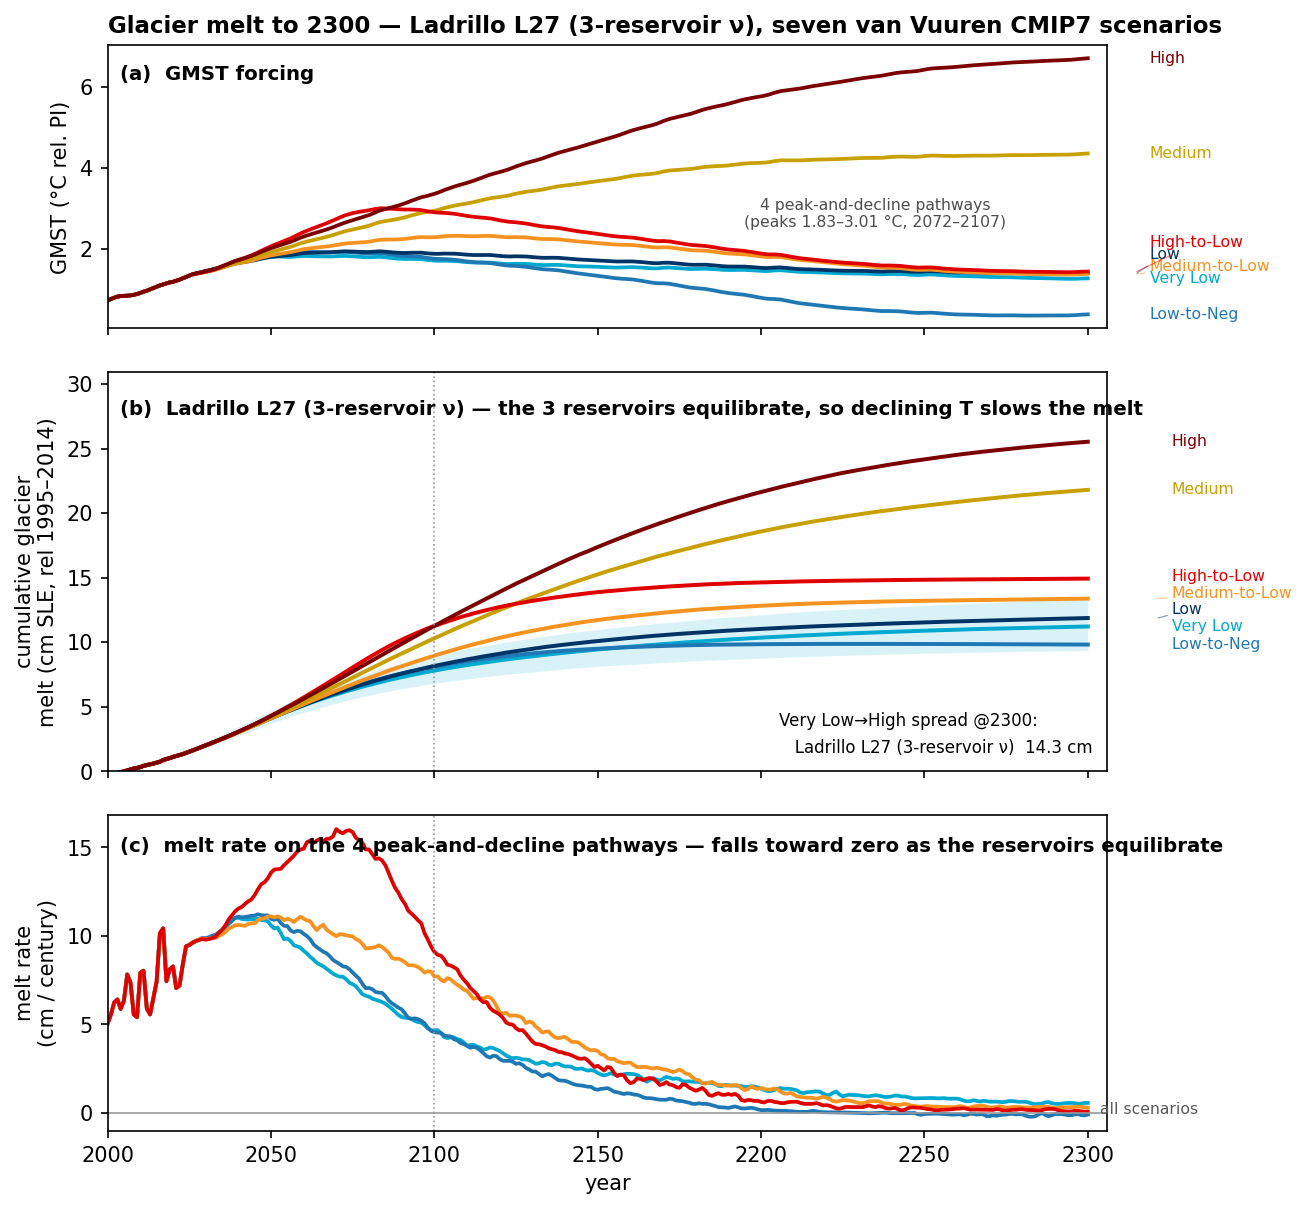
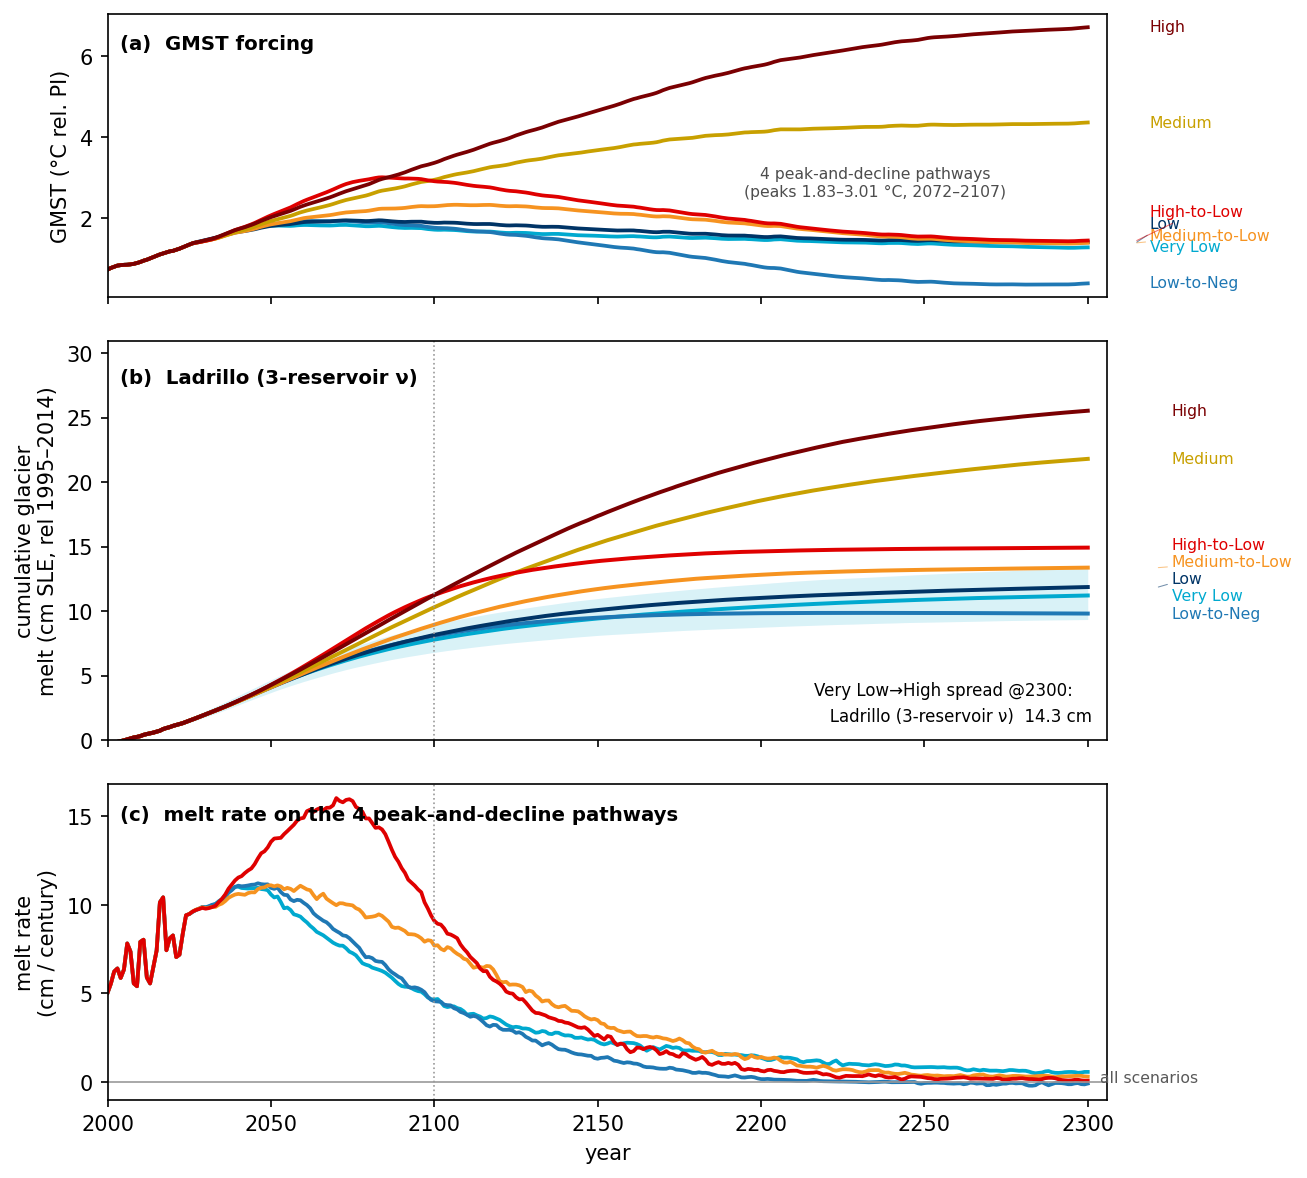
r1111b: Mimi.jl cites GitHub v1.6.0, NOAA access 20 May, short Fig. 5 panel titles (Marcus 11-12)
Rebuilt on the 20:34 TW2 save into a new file; Marcus's 07:25 save of r1111
had no text changes. 90 tracked edits, 8 comments; verify PASS, mutation 7/7.
Fig. 5 re-rendered: only the two title rows change. The stale fixed-arm
render (pre-11-05 paper mode) is refreshed too.

diff --git a/deliverables/redline/r1111/edits_r1111.py b/deliverables/redline/r1111/edits_r1111.py
@@ -80,6 +80,11 @@ ENTRIES = [
     E("R2", "References", "De La Guardia, F. H.", "Hoces de la Guardia, F.", "De La Guardia",
       "Zenodo creator Fernando Hoces de la Guardia; Crossref family 'Hoces de la Guardia'"),
     E("R3", "References", "and Catawbasam:", "and catawbasam:", "Catawbasam", "Zenodo creator list (a GitHub handle)"),
+    # Mimi.jl, option 1 (Marcus 11-12: "the Mimi citation should be to the github"): the Manifest pins 1.6.0, which Zenodo
+    # never archived; GitHub release v1.6.0, published 2026-04-03 (gh api .../releases/tags/v1.6.0, checked 11-12).
+    E("M1", "References", "all versions, Zenodo [code], https://doi.org/10.5281/zenodo.4321855, 2022",
+      "v1.6.0, GitHub [code], https://github.com/mimiframework/Mimi.jl/releases/tag/v1.6.0, 2026",
+      "mimiframework/Mimi.jl, all versions", "Marcus 11-12: Mimi option 1 (GitHub release v1.6.0)"),
     # ---- Fig. 5: the joint-arm image replaces the fixed-arm one (FIGS below), so the caption's last words go ----------
     # F5 (delete the caption's closing " Fixed arm.") dropped: Marcus deleted it in the 20:34 save.
 ]
@@ -92,6 +97,8 @@ MINIMAL = [
     ("T2c", "Σ_m ln L_m + ln π", "L_m", "𝓛_m"), ("T2d", "The L_m are Gaussian", "L_m", "𝓛_m"),
     # 2.2.4: alpha matched to total Earth heat, 1993-2020: diag_te_alpha_matched_scope_L27_igcc2025.csv alpha_obs_param 0.13921
     ("N1", "0.141, below the posterior", "0.141", "0.139"),
+    # 3.2: the Mimi.jl entry now cites the GitHub release v1.6.0, 2026 (M1; Marcus 11-12, option 1)
+    ("M2", "Mimi framework (1.6; Rennels et al., 2022)", "2022", "2026"),
     # 4.1: era shape 1900-1949 of observed 0-2000 m heat: diag_te_driver_timing_igcc2025.csv 0.2028
     ("N2", "0.21 for observed", "0.21", "0.20"),
     # 4.1: FaIR over 0-2000 m: Zanna+IGCC 1.192 (1993-2024), Zanna+Cheng 1.274 (diag_te_rate_attribution_L27_igcc2025.csv B)
@@ -175,7 +182,7 @@ NEW_REFS = [
      "https://doi.org/10.1038/s41467-026-77976-1, 2026."),
     ("Nauels, A., Möller", "NOAA Laboratory for Satellite Altimetry: Global mean sea level time series, TOPEX/Poseidon, "
      "Jason-1, -2, -3 and Sentinel-6MF, seasonal signals removed (slr_sla_gbl_free_ref_90), NOAA/NESDIS/STAR [data set], "
-     "https://www.star.nesdis.noaa.gov/socd/lsa/SeaLevelRise/LSA_SLR_timeseries.php, last access: 18 May 2026, 2026."),
+     "https://www.star.nesdis.noaa.gov/socd/lsa/SeaLevelRise/LSA_SLR_timeseries.php, last access: 20 May 2026, 2026."),
     ("Nauels, A., Möller", "Nicholls, Z. R. J., Meinshausen, M., Lewis, J., Gieseke, R., Dommenget, D., Dorheim, K., Fan, "
      "C.-S., Fuglestvedt, J. S., Gasser, T., Golüke, U., Goodwin, P., Hartin, C., Hope, A. P., Kriegler, E., Leach, N. J., "
      "Marchegiani, D., McBride, L. A., Quilcaille, Y., Rogelj, J., Salawitch, R. J., Samset, B. H., Sandstad, M., "
@@ -288,7 +295,7 @@ FIGS = [("rId11", "hindcast_components_L27.png", "Fig. 1: lettered render (11-05
         ("rId13", "model_comparison_components_vv_L27_2100.png", "Fig. 2: lettered render (11-05)"),
         ("rId15", "model_comparison_components_vv_L27_2300.png", "Fig. 3: lettered render (11-05)"),
         ("rId17", "future_components_vv_L27_joint.png", "Fig. 4: lettered render (11-05)"),
-        ("rId19", "vv_gsic_ladrillo_L27_2300_joint.png", "Fig. 5: joint arm (11-05), as the caption says"),
+        ("rId19", "vv_gsic_ladrillo_L27_2300_joint.png", "Fig. 5: joint arm (11-05), as the caption says; short panel titles (Marcus 11-12)"),
         ("rId21", "vv_responsiveness_L27.png", "Fig. 6: lettered render (11-05)")]
 
 
@@ -377,15 +384,11 @@ COMMENTS = [
      "(the four production chains give the shipped 10,000-draw posterior byte for byte). Not yet: the scripts that build "
      "the calibration targets and drivers from the Table 3 sources. That port needs your decisions on the non-public "
      "Dangendorf v2 file, GRACE redistribution and dataset licences."),
-    ("mimiframework/Mimi.jl, all versions",
-     "Claude 11-11: the Manifest pins Mimi 1.6.0 (GitHub tag v1.6.0, commit b01ae95, 2026-04-03), but Zenodo never archived "
-     "1.6: the concept DOI 4321855 resolves to v1.5.1 (10.5281/zenodo.7370071, 2022). Option 1: cite the GitHub tag "
-     "v1.6.0 (no DOI), year 2026, so 'Rennels et al., 2026' in Sect. 3.2. Option 2: keep this entry (2022, concept "
-     "DOI). I fixed only the two creator names to match Zenodo."),
-    ("last access: 18 May 2026",
-     "Claude 11-11: the repository bounds the download to 18-20 May 2026 (URLs confirmed 05-18 in download_obs.py; the "
-     "file was committed 05-20); I used 18 May. NOAA's data policy asks for the acknowledgment 'Altimetry data are "
-     "provided by the NOAA Laboratory for Satellite Altimetry.'; the Acknowledgements say 'are sourced from'."),
+    # The Mimi.jl comment (options 1/2) was dropped 11-12: Marcus chose option 1 (M1, M2).
+    ("last access: 20 May 2026",
+     "Claude 11-12: access date 20 May, your call 11-12 (the repository bounds the download to 18-20 May; the file was "
+     "committed 05-20). Still open: NOAA's data policy asks for the acknowledgment 'Altimetry data are provided by the "
+     "NOAA Laboratory for Satellite Altimetry.'; the Acknowledgements say 'are sourced from'."),
     # The seed comment ("that each figure reads") was dropped for the 17:06 save: Marcus replaced the sentence with
     # "Ladrillo's calibration and projection drivers fix every random seed, so the results can be regenerated."
     ("Greenland melt occurs through",
@@ -400,7 +403,8 @@ COMMENTS = [
      "two references to note 17 (Sect. 3.2, Table A3) now say note 14. The guidance listed notes 17, 19, 20 and 21; "
      "note 17 is the Rignot area scaling, a method, so it stays."),
     ("Regrowth of about 0.08 cm occurs on Low-to-Negative",
-     "Claude 11-11: the joint-arm image is in. The guidance's "
+     "Claude 11-12: shorter panel titles, your call 11-12: '(b) Ladrillo (3-reservoir ν)' and '(c) melt rate on the 4 "
+     "peak-and-decline pathways'; nothing else in the image changed. Claude 11-11: the joint-arm image is in. The guidance's "
      "move of this figure to after the peak-and-decline paragraph is NOT done: a scripted move would turn this caption's "
      "pending edits into one Claude insertion. Cut and paste the figure and caption in Word with Track Changes on if you "
      "want it. Figs. 5 and 6 are first cited together (Sect. 4.2), so the move does not change their numbering."),

diff --git a/python/plot_vv_gsic_wr_vs_ladrillo.py b/python/plot_vv_gsic_wr_vs_ladrillo.py
@@ -301,7 +301,10 @@ for s in LABELS:
     if s == SPREAD_LO:
         ax[2].fill_between(d.index.values, d.p05_cm.values, d.p95_cm.values,
                            color=COL[s], alpha=0.15, lw=0)
-ax[2].text(0.012, 0.93, ("(b)" if LADRILLO_ONLY else "(c)") + "  %s — the 3 reservoirs equilibrate, so declining T slows the melt"
+## Short panel titles in the Ladrillo-only figure (the paper's Fig. 5; Marcus 2026-11-12): the caption explains the
+## panels, so the explanatory clauses stay only in the four-panel WR contrast.
+ax[2].text(0.012, 0.93, ("(b)  %s" if LADRILLO_ONLY else
+                         "(c)  %s — the 3 reservoirs equilibrate, so declining T slows the melt")
            % LAD_NAME, transform=ax[2].transAxes, fontsize=9.5, fontweight="bold", va="top")
 sp_wr = (wr(SPREAD_HI).set_index("year").gsic_med.loc[2300]
          - wr(SPREAD_LO).set_index("year").gsic_med.loc[2300])
@@ -349,8 +352,7 @@ ax[3].set_ylabel("melt rate\n(cm / century)")
 ax[3].set_xlabel("year")
 ax[3].set_xlim(X0, X1)
 lf.direct_label(ax[3], _ends3)
-ax[3].text(0.012, 0.93, (("(c)  melt rate on the %d peak-and-decline pathways — falls toward zero "
-                          "as the reservoirs equilibrate") if LADRILLO_ONLY else
+ax[3].text(0.012, 0.93, ("(c)  melt rate on the %d peak-and-decline pathways" if LADRILLO_ONLY else
                          ("(d)  melt rate on the %d peak-and-decline pathways — WR solid stays "
                           "high, Ladrillo dashed falls toward zero")) % len(DECLINE),
            transform=ax[3].transAxes, fontsize=9.5, fontweight="bold", va="top")

diff --git a/CHANGELOG.md b/CHANGELOG.md
@@ -29,6 +29,29 @@ of raw chains. Projections read the thinned `data/MimiBRICK/parameters_subsample
   decompressed with `gunzip -k`. The default tag (L27) is unaffected.
 - The disk space comes back only when the Trash is emptied; until then the archives add 31 GB.
 
+## 2026-11-12 — r1111b: Mimi.jl cites the GitHub release, NOAA access 20 May, short Fig. 5 panel titles (Marcus)
+
+Marcus 11-12: "the Mimi citation should be to the github, and the NOAA access date can be 20 May. For Figure 5, I think
+we don't need the extended Figure titles".
+- Marcus's 07:25 save of the r1111 output (md5 4cc156aa) has the same paragraph and comment text as the delivered build;
+  Word only re-split runs and reordered comments. The pass was therefore rebuilt on the 20:34 TW2 save (a180bc82,
+  unchanged) into a new file, and the r1111 file is left as he saved it.
+- M1: the Mimi.jl entry becomes "v1.6.0, GitHub [code], https://github.com/mimiframework/Mimi.jl/releases/tag/v1.6.0,
+  2026" (the release was published 2026-04-03; checked with `gh api` on 11-12). M2: "Rennels et al., 2022" becomes 2026
+  in Sect. 3.2. The comment offering options 1 and 2 is dropped.
+- NOAA reference: last access 20 May 2026 (was 18 May). Its comment now carries only the open acknowledgment wording.
+- Fig. 5: under `--ladrillo-only`, `python/plot_vv_gsic_wr_vs_ladrillo.py` ends the panel titles at "(b) Ladrillo
+  (3-reservoir ν)" and "(c) melt rate on the 4 peak-and-decline pathways". The four-panel Wigley-Raper contrast keeps
+  its longer titles. Control: before the edit, the joint render reproduced the committed PNG byte for byte. After it,
+  pixels differ only in rows 369-387 and 806-824 (the two title lines); the size (1327 × 1178) and the caption sidecar
+  are unchanged. Ladrillo.jl's port was changed the same way, and its FIGURES-IDENTITY gate passes 16/16.
+- The fixed-arm render `figures/paper/vv_gsic_ladrillo_L27_2300.png` (out of the paper since 11-05) was stale: it predates
+  the 11-05 paper-mode change and still had the memo suptitle and the "L27" tag (1209 px tall against 1178). Re-rendered.
+- Output `deliverables/GMD.Ladrillo.v1_review-2026-11-12_L27_r1111b.docx` (untracked), md5 12ec230e0a2e6a087662c14e016be91f:
+  90 tracked edits and 8 comments. Word schema validation PASS; `verify_r1111.py` PASS (nesting depth 1; 119,941
+  characters equal; 95/95 new values; structure 22/22); mutation test 7/7 killed. The embedded Fig. 5 has the md5 of
+  `figures/paper` (f9ccb8b5).
+
 ## 2026-11-11g — GMD round r1111 final build on the 20:34 save, with the three optional simplifications
 
 **Marcus 11-11, 20:34:** "The last save is done … Create a new version of the document to make the next set of
